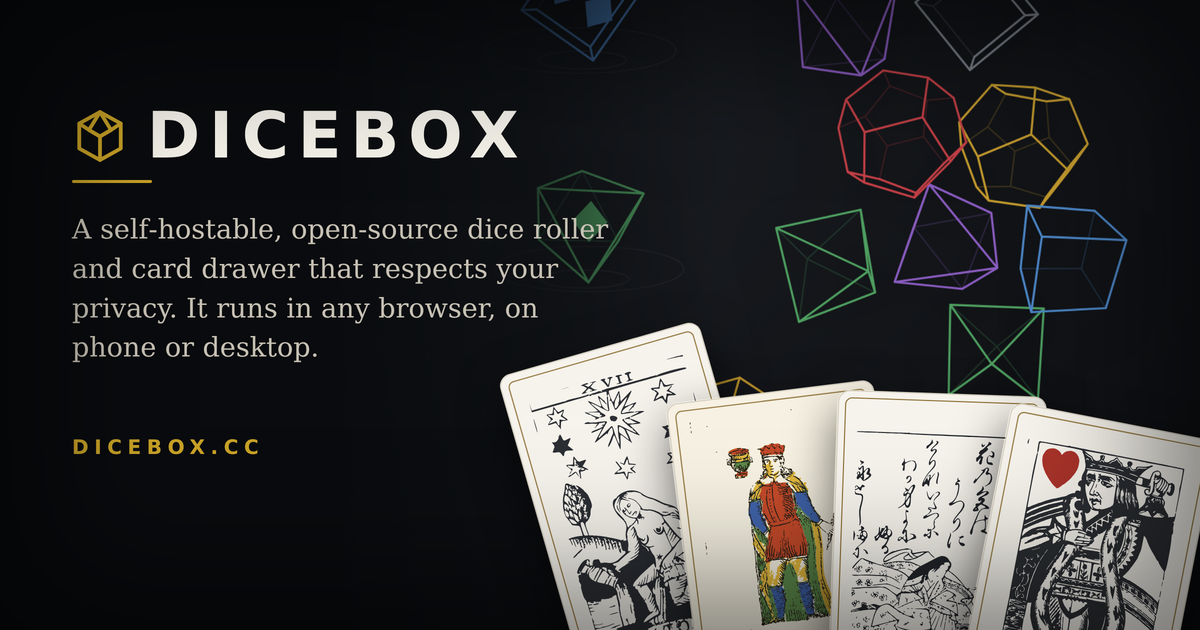
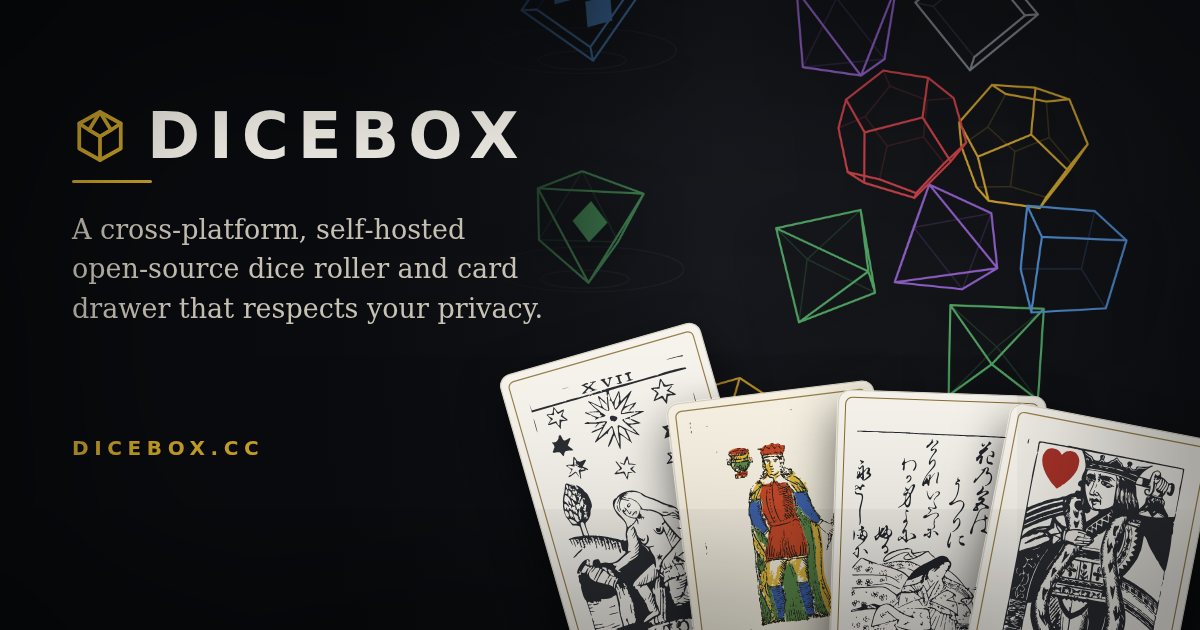
Refine the tagline to one line and rebuild the social card
Drop the second sentence for a single line: a cross-platform, self-hosted
open-source dice roller and card drawer that respects your privacy. Rebuild
og.png with the new copy and sync the meta descriptions and README hero.

diff --git a/index.html b/index.html
@@ -9,12 +9,12 @@
      single-file build, which loads from file: and inlines everything. -->
 <base href="/">
 <title>Dicebox</title>
-<meta name="description" content="A self-hostable, open-source dice roller and card drawer that respects your privacy. It runs in any browser, on phone or desktop.">
+<meta name="description" content="A cross-platform, self-hosted open-source dice roller and card drawer that respects your privacy.">
 <meta property="og:type" content="website">
 <meta property="og:site_name" content="Dicebox">
 <meta property="og:url" content="https://dicebox.cc/">
 <meta property="og:title" content="Dicebox">
-<meta property="og:description" content="A self-hostable, open-source dice roller and card drawer that respects your privacy. It runs in any browser, on phone or desktop.">
+<meta property="og:description" content="A cross-platform, self-hosted open-source dice roller and card drawer that respects your privacy.">
 <meta property="og:image" content="https://dicebox.cc/og.png">
 <meta property="og:image:type" content="image/png">
 <meta property="og:image:width" content="1200">
@@ -22,7 +22,7 @@
 <meta property="og:image:alt" content="The Dicebox wordmark over scattered polyhedral dice, with tarot, napoletane, uta-garuta, and playing cards fanned below.">
 <meta name="twitter:card" content="summary_large_image">
 <meta name="twitter:title" content="Dicebox">
-<meta name="twitter:description" content="A self-hostable, open-source dice roller and card drawer that respects your privacy. It runs in any browser, on phone or desktop.">
+<meta name="twitter:description" content="A cross-platform, self-hosted open-source dice roller and card drawer that respects your privacy.">
 <meta name="twitter:image" content="https://dicebox.cc/og.png">
 <link rel="manifest" href="manifest.webmanifest">
 <meta name="theme-color" content="#FCFCFA" media="(prefers-color-scheme: light)">

diff --git a/README.md b/README.md
@@ -1,12 +1,11 @@
 # Dicebox
 
 <p align="center">
-  <img src="og.png" alt="Dicebox — a self-hostable, open-source dice roller and card drawer that respects your privacy" width="720">
+  <img src="og.png" alt="Dicebox — a cross-platform, self-hosted open-source dice roller and card drawer that respects your privacy" width="720">
 </p>
 
-A self-hostable, open-source dice roller and card drawer that respects your
-privacy. It runs in any browser, on phone or desktop — no build step, no
-dependencies, no network.
+A cross-platform, self-hosted open-source dice roller and card drawer that
+respects your privacy.
 
 Try it at **[dicebox.cc](https://dicebox.cc)** — that is a
 demo instance, not a service. To keep a copy of your own, see
